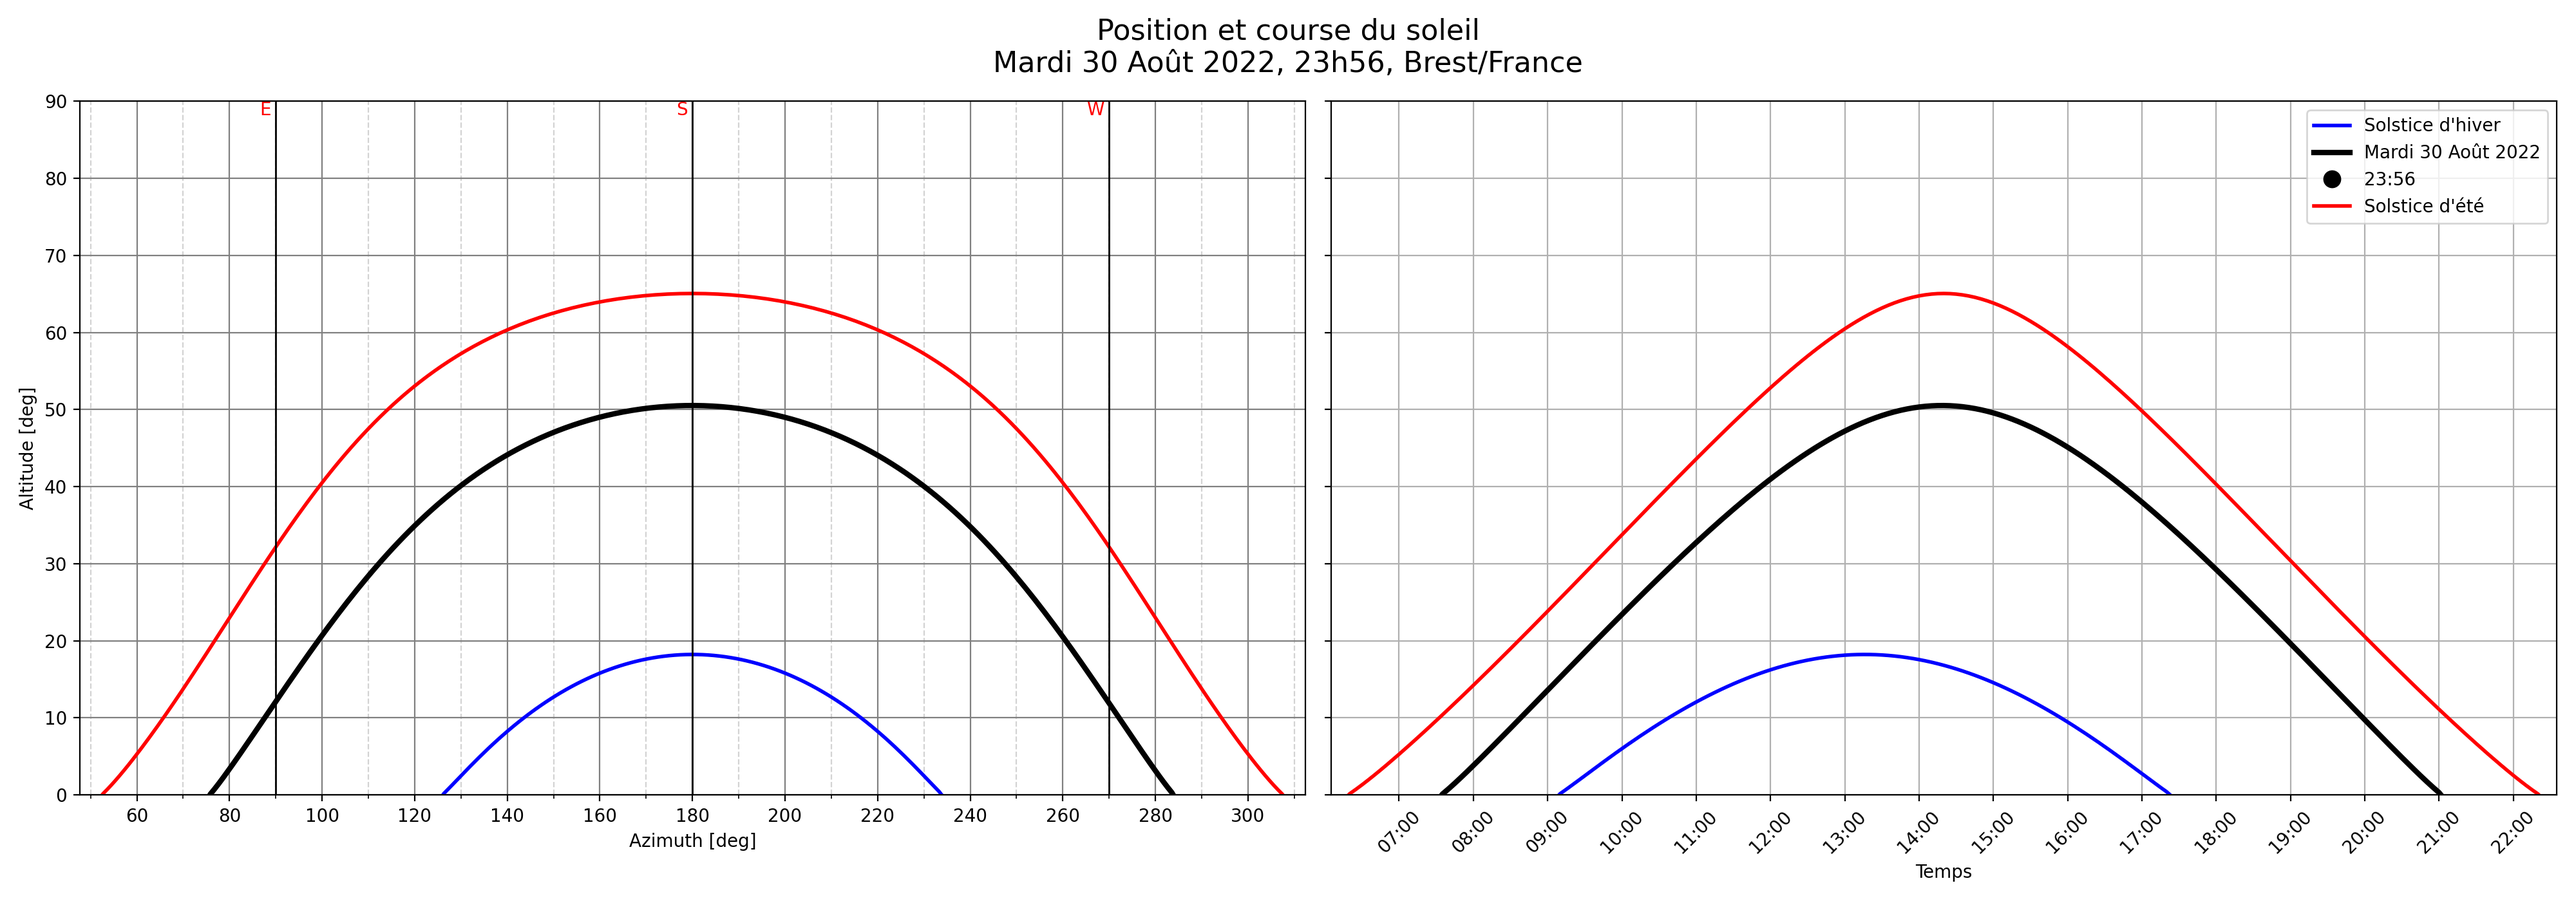
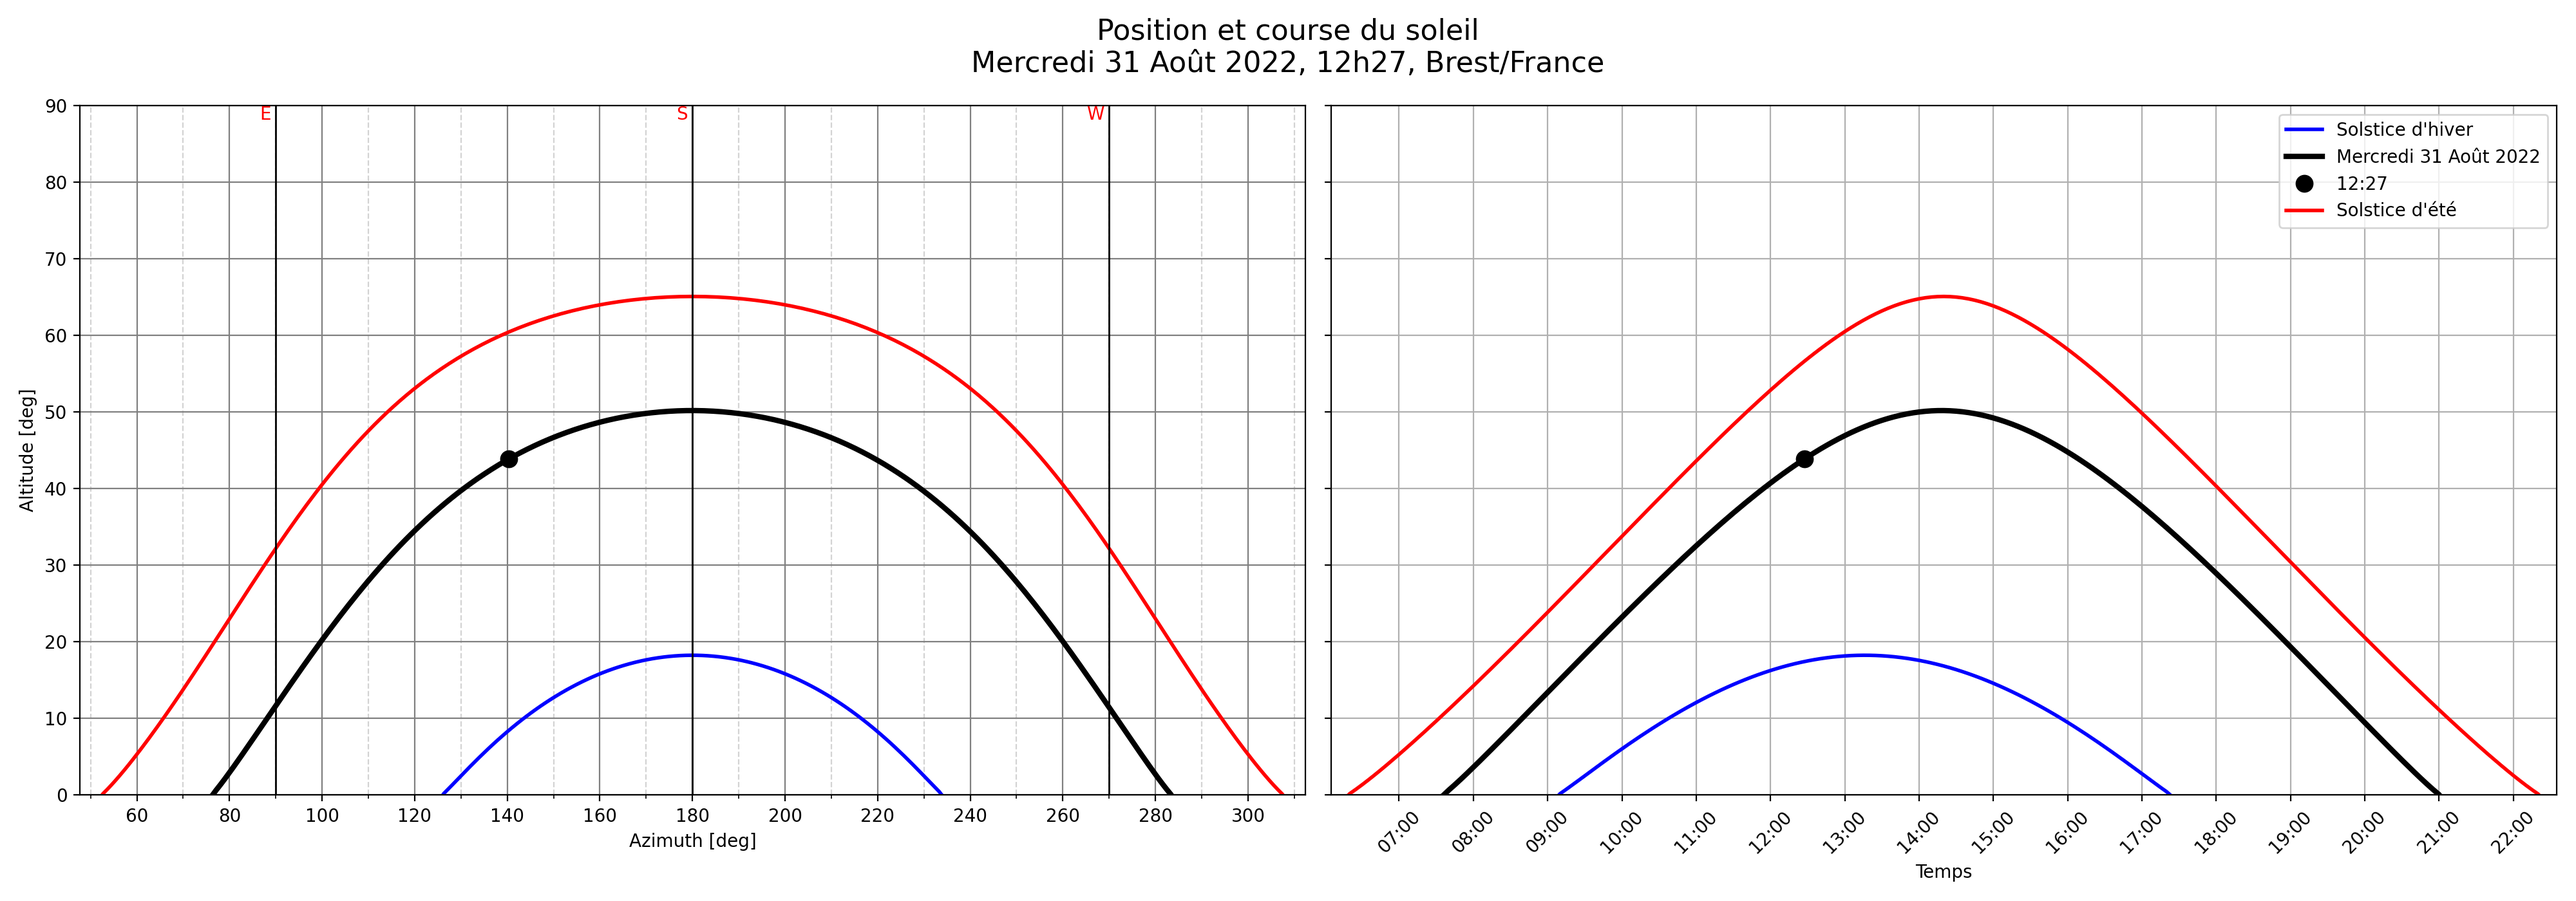
fix bug with 31 days

diff --git a/Position-soleil-static.py b/Position-soleil-static.py
@@ -19,7 +19,7 @@ from astral import LocationInfo
 # import locale
 # locale.setlocale(locale.LC_ALL, 'fr_FR.UTF-8')  # Raise locale.Error: unsupported locale setting on Github actions
 
-def daily_sun_position(day, obs):
+def daily_sun_position_old(day, obs):
     tim = pd.date_range(start='%s0000' % day, end='%i0000' % (int(day)+1), periods=288+1, tz='Europe/Paris')  # 5-mins
     altitude, azimuth = [], []
     for t in tim:
@@ -28,6 +28,24 @@ def daily_sun_position(day, obs):
     df = pd.DataFrame(list(zip(tim, azimuth, altitude)), columns=['time', 'azimuth', 'altitude'])
     df['time'] = df['time'].dt.time
     return df
+
+def daily_sun_position(t, obs):
+    if isinstance(t,pd.Timestamp):
+        start = pd.to_datetime("%0.4d%0.2d%0.2d" % (t.year, t.month, t.day))
+        end = pd.to_datetime("%0.4d%0.2d%0.2d" % (
+        (t + pd.Timedelta(24, 'hours')).year, (t + pd.Timedelta(24, 'hours')).month, (t + pd.Timedelta(24, 'hours')).day))
+    else:
+        start='%s0000' % t
+        end='%i0000' % (int(t) + 1)
+    tim = pd.date_range(start=start, end=end, periods=288 + 1, tz='Europe/Paris')  # 5-mins
+    altitude, azimuth = [], []
+    for t in tim:
+        altitude.append(sun.elevation(obs, t))# The number of degrees up from the horizon at which the sun can be seen
+        azimuth.append(sun.azimuth(obs, t))   # The number of degrees clockwise from North at which the sun can be seen
+    df = pd.DataFrame(list(zip(tim, azimuth, altitude)), columns=['time', 'azimuth', 'altitude'])
+    df['time'] = df['time'].dt.time
+    return df
+
 
 def now_sun_position(t, obs):
     # t = pd.to_datetime('now', utc=True)
@@ -76,7 +94,7 @@ solstice_summer = daily_sun_position('%s0621' % date[0:4], l.observer)
 solstice_winter = daily_sun_position('%s1221' % date[0:4], l.observer)
 
 # Work with specific date
-df = daily_sun_position(date, l.observer)
+df = daily_sun_position(t, l.observer)
 df_now = now_sun_position(t, l.observer)
 
 # Plot
